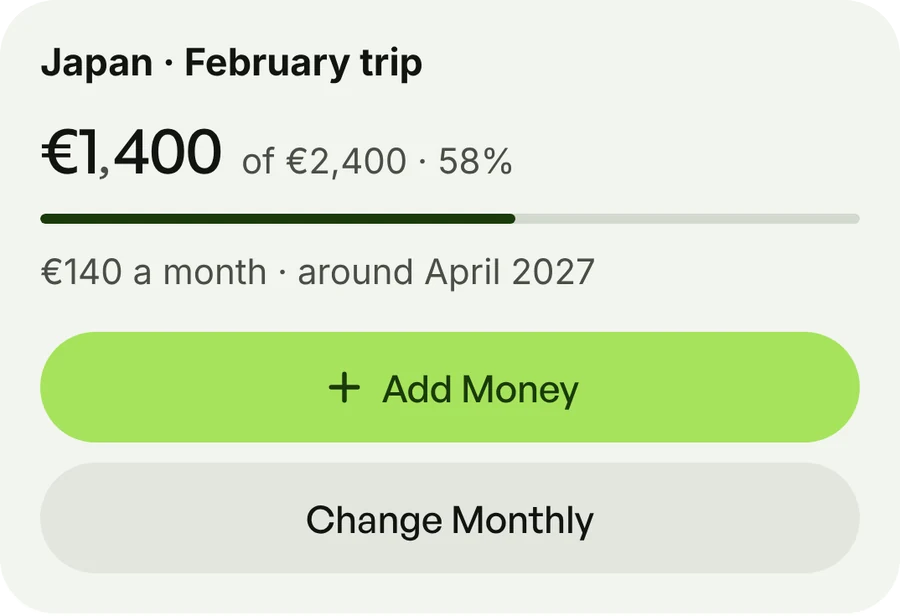
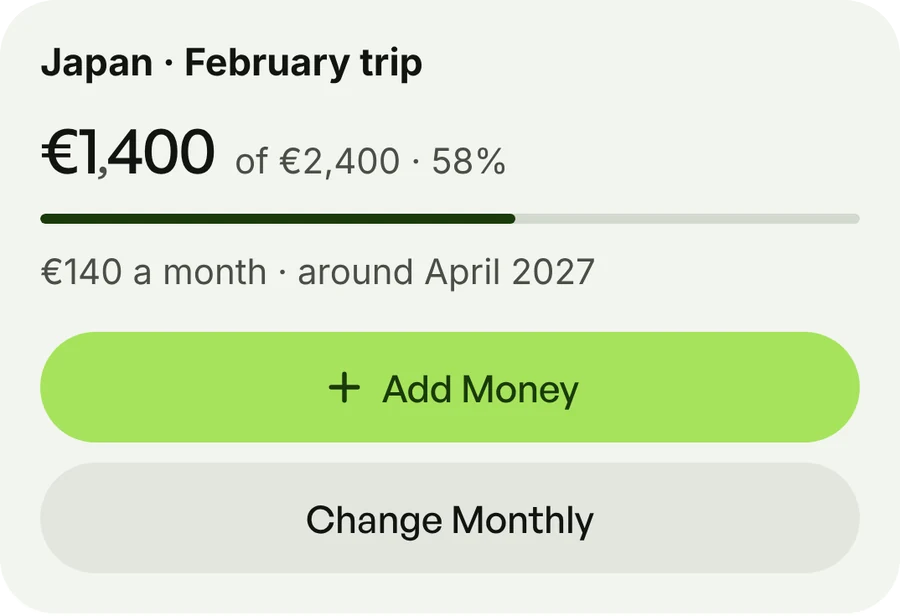
Cushion: more room before the cents on the safe-to-spend number
Claude-Session: https://claude.ai/code/session_01JSvXBzoWrq8YzxT9cABVqA

Changed region(s): [[0.0933, 0.1851, 0.56, 0.3084]]

diff --git a/cushion-case/index.html b/cushion-case/index.html
@@ -216,7 +216,7 @@ p { margin: 0; }
 .money-type .cap { font-size: 15px; font-weight: 500; font-family: var(--sf); }
 .big-num { font-size: 88px; font-weight: 500; letter-spacing: -.03em; line-height: 1; color: #fff; }
 .big-num .cur { font-size: .32em; vertical-align: .95em; font-weight: 400; margin-right: 4px; letter-spacing: .02em; opacity: .9; }
-.big-num .cents { font-size: 22px; vertical-align: 4px; margin-left: -3px; letter-spacing: normal; opacity: .9; }
+.big-num .cents { font-size: 22px; vertical-align: 4px; margin-left: 2px; letter-spacing: normal; opacity: .9; }
 .pill-aa { justify-self: start; font-size: 12px; font-weight: 500; padding: 4px 10px; border-radius: 99px; background: var(--forest); color: var(--lime); }
 .a11y { list-style: none; margin: 8px 0 0; padding: 0; display: grid; grid-template-columns: repeat(2, minmax(0, 1fr)); gap: 14px 20px; }
 .a11y li { font-size: 13px; color: var(--body); line-height: 1.5; border-top: 1px solid var(--line); padding-top: 10px; }

diff --git a/cushion/index.html b/cushion/index.html
@@ -1276,7 +1276,7 @@ button.chip-s:active { background: rgba(255, 255, 255, .2); }
 /* € and cents sit on the baseline of the safe-to-spend figure */
 .safe .num .cur, .safe .num .cents { vertical-align: 4px !important; font-size: 22px !important; font-weight: 500 !important; }
 .safe .num .cur { margin-right: 4px; font-size: .32em !important; vertical-align: .95em !important; font-weight: 400 !important; }
-.safe .num .cents { margin-left: -3px; }
+.safe .num .cents { margin-left: 2px; }
 .safe { isolation: isolate; }
 .safe { aspect-ratio: 4 / 3; grid-template-rows: auto 1fr auto; }
 .safe .num { align-self: end; }
